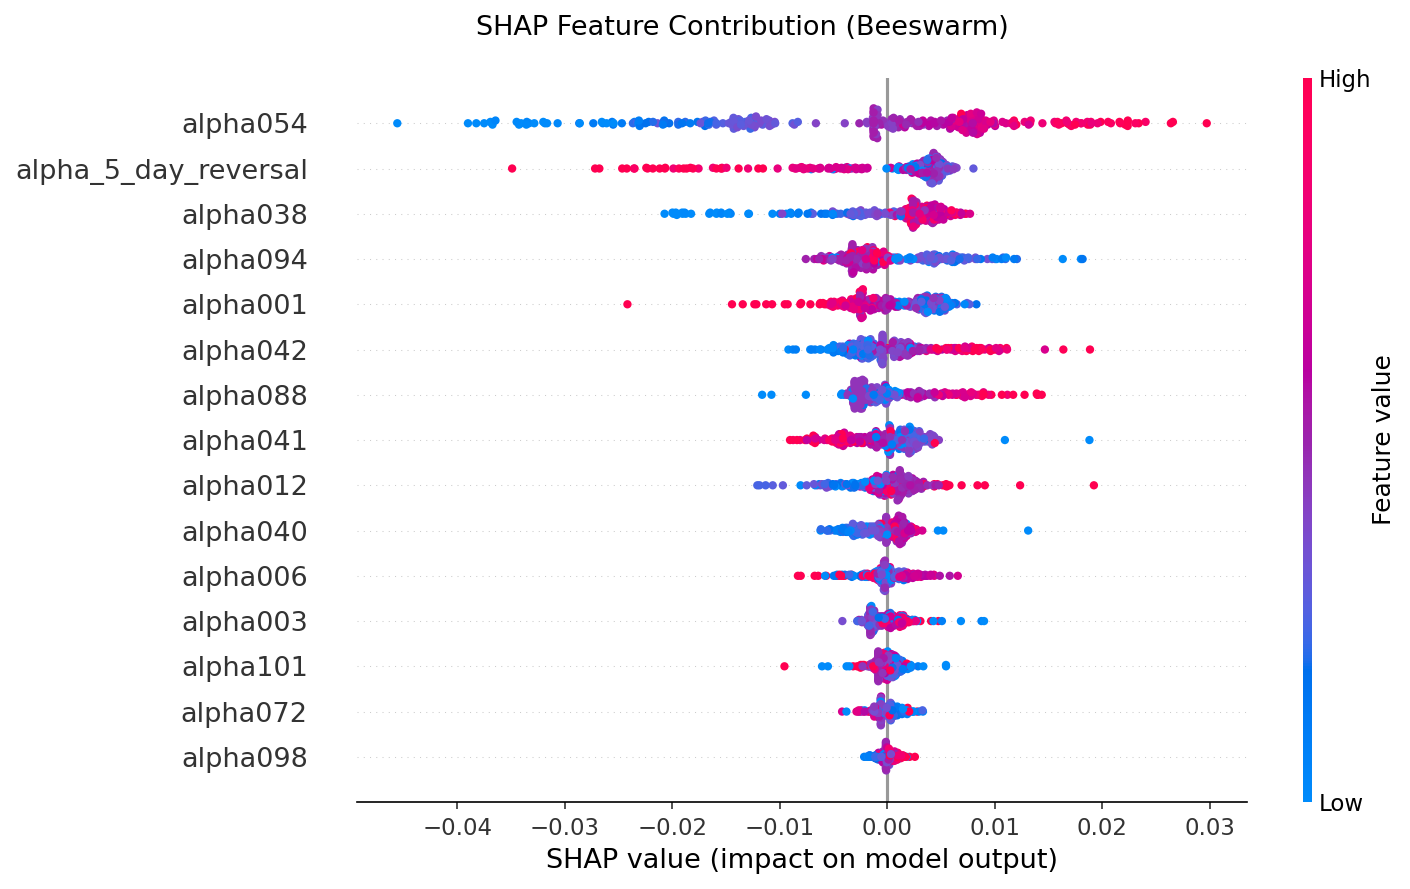
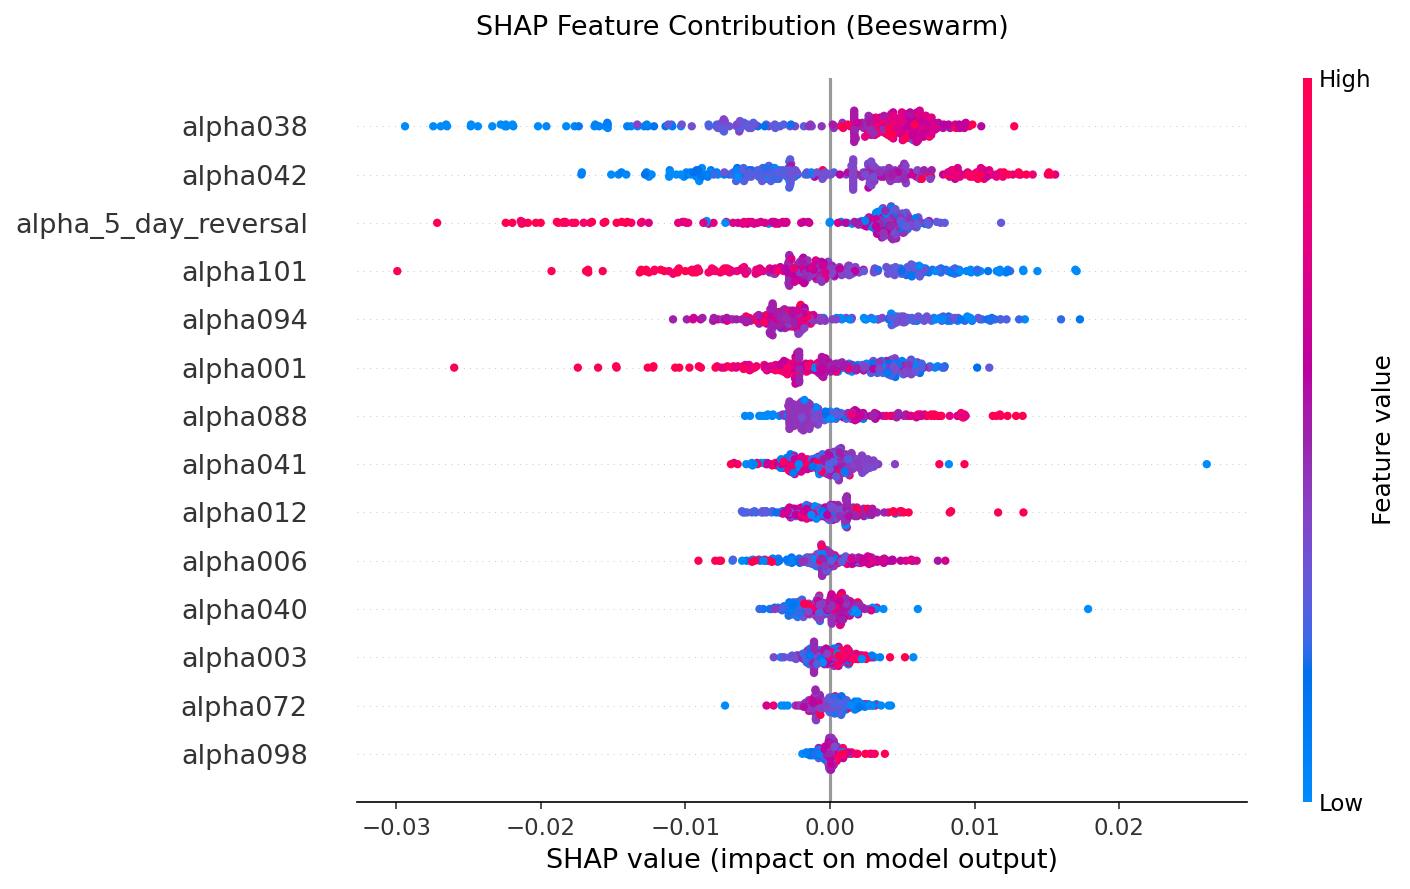
upd: 重新运行了执行脚本

diff --git a/src/alphas.py b/src/alphas.py
@@ -375,6 +375,7 @@ class Alpha101:
         """
         return self._rank(self.vwap - self.close) / self._rank(self.vwap + self.close)
 
+    '''
     def alpha054(self) -> pd.DataFrame:
         """
         Alpha#54: ((-1 * ((low - close) * (open^5))) / ((low - high) * (close^5)))
@@ -386,6 +387,7 @@ class Alpha101:
         num = -1 * (self.low - self.close) * self._signed_power(self.open, 5)
         den = (self.low - self.high) * self._signed_power(self.close, 5)
         return num / den
+    '''
 
     def alpha072(self) -> pd.DataFrame:
         """
